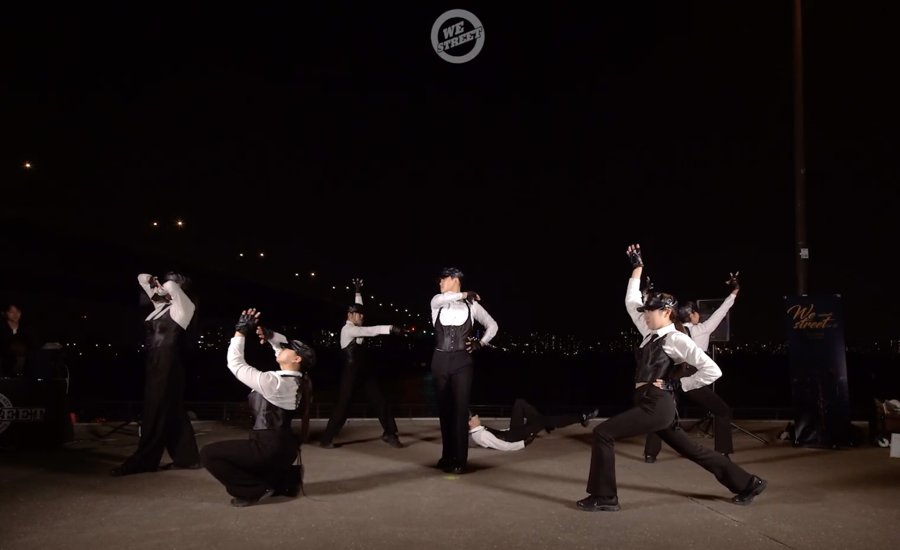
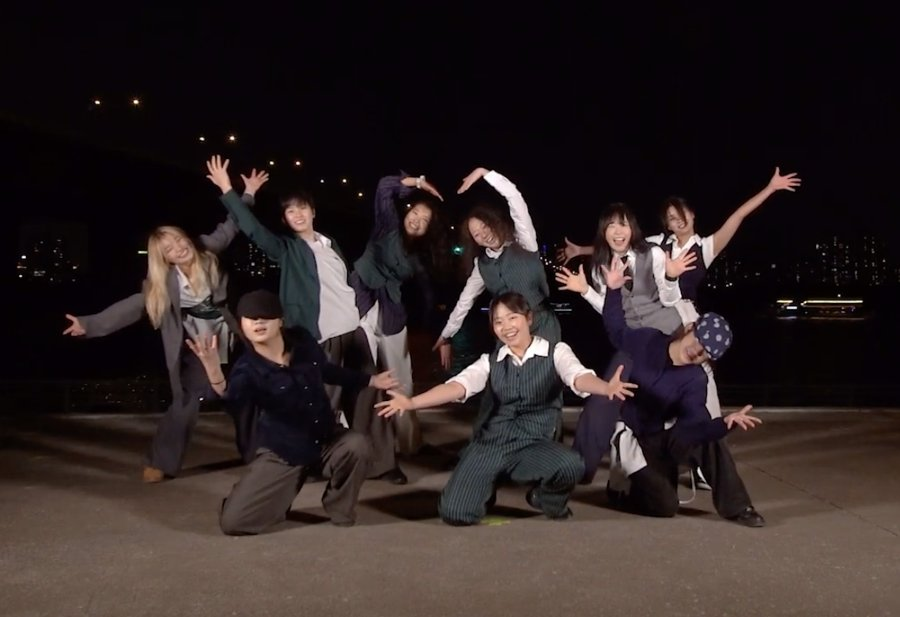
Add files via upload

diff --git a/index.html b/index.html
@@ -74,6 +74,8 @@ a.pl-hit:active{opacity:.8}
 .pl-title{display:block;font-size:15.5px;font-weight:800;line-height:1.3}
 .pl-desc{font-size:13px;color:var(--muted);margin:4px 0 0;line-height:1.55;word-break:keep-all}
 .pl-card .pg-edit{padding:0 16px 14px}
+.lu-note{font-size:13px;font-weight:600;color:var(--ink);margin:-2px 0 10px;word-break:keep-all}
+.lu-note-edit{margin:0 0 10px}
 .lu-group{margin-bottom:18px}
 .lu-h{font-size:13px;font-weight:800;letter-spacing:.04em;color:var(--muted);margin:0 0 8px}
 .lu-grid{display:grid;grid-template-columns:repeat(2,minmax(0,1fr));gap:10px}
@@ -524,12 +526,12 @@ window.HGJ_CONFIG = {"theme": {"colors": {"yellow": "#FFC700", "blue": "#1764F0"
   var GROUPS = [
     ["HOST · MC", [["yukyung", "유경", "HOST · MC"], ["hyukjun", "혁준", "HOST · MC"]]],
     ["DJ", [["dames", "DAMES", "DJ"]]],
-    ["WE STREET 공연", [["ws1", "공연팀 1", "14:30 공연"], ["ws2", "공연팀 2", "14:30 공연"], ["ws3", "공연팀 3", "14:30 공연"]]],
-    ["GUEST", [["kyungwon", "경원총각", "GUEST"], ["ssooni", "씨순이", "GUEST"], ["jin", "JIN", "GUEST"], ["hiron", "하이론", "BATTLE GUEST"]]],
-    ["장르 체험 강사", [["nohyunho", "노현호", "브레이킹 강사"], ["vlue", "황규영 / VLUE", "크럼프 강사"]]],
-    ["촬영", [["poetryfilm", "POETRY FILM", "영상 촬영"], ["yoon", "YooN", "사진 촬영"], ["parkjegwan", "박제관", "사진 촬영"], ["choiyusin", "최유신", "영상 촬영"]]]
+    ["장르 체험 강사", [["nohyunho", "노현호", "브레이킹 강사"], ["vlue", "황규영 / VLUE", "크럼프 강사"]], "lesson"],
+    ["GUEST", [["kyungwon", "경원총각", "GUEST"], ["ssooni", "씨순이", "GUEST"], ["jin", "JIN", "GUEST"], ["hiron", "하이론", "BATTLE GUEST"]], "guest"],
+    ["촬영", [["poetryfilm", "POETRY FILM", "영상 촬영"], ["choiyusin", "최유신", "영상 촬영"], ["yoon", "YooN", "사진 촬영"], ["parkjegwan", "박제관", "사진 촬영"]]]
   ];
-  var META = {"dames": {"insta": "damesgood", "photo": "0f252f39d522840e4245a8d7c6b368a8"}, "hiron": {"insta": "_hi_ron", "name": "하이론", "photo": "dc8b1b9727d7dedb6ab924ee44b545ce", "role": "BATTLE GUEST"}, "hyukjun": {"insta": "blackee_yuri", "name": "혁준", "photo": "119daf05c5dc17119b529bd97842c072", "role": "HOST · MC"}, "jin": {"photo": "1095da3a463900d2f5d0fdb3fa90febd"}, "kyungwon": {"insta": "pppp__arrk", "name": "경원총각", "photo": "66544b1c444ea11d1302db201b32d0ee", "role": "GUEST"}, "nohyunho": {"insta": "kaka_dowool_01"}, "poetryfilm": {"insta": "poetry_film_club", "photo": "71647f270cfecab7878db19aaab1e38e"}, "ssooni": {"insta": "cu_soonii", "name": "씨순이", "photo": "70dd9812a63e6656867ee7d1ef6fe9c9", "role": "GUEST"}, "yoon": {"insta": "choi.ayyeka"}, "yukyung": {"insta": "kwon_yk", "name": "유경", "photo": "043b16bfccba82de1d4ebb593e130735", "role": "HOST · MC"}}, db = null, assets = null, editable = false;
+  var NOTES = { lesson: "한강플플 실내 공간에서 스트릿댄스를 배울 수 있는 기회!", guest: "" };
+  var META = {"choiyusin": {"insta": "c.hoiiys", "name": "최유신", "photo": "83e08cf94d721339a6c755bc3fa54b21", "role": "영상 촬영"}, "dames": {"insta": "damesgood", "photo": "0f252f39d522840e4245a8d7c6b368a8"}, "hiron": {"insta": "_hi_ron", "name": "하이론", "photo": "dc8b1b9727d7dedb6ab924ee44b545ce", "role": "BATTLE GUEST"}, "hyukjun": {"insta": "blackee_yuri", "name": "혁준", "photo": "65a084495cfeb1782e6d76ad30030351", "role": "WE STREET"}, "jin": {"insta": "wassup_jin", "name": "JIN", "photo": "1095da3a463900d2f5d0fdb3fa90febd", "role": "GUEST"}, "kyungwon": {"insta": "pppp__arrk", "name": "경원총각", "photo": "66544b1c444ea11d1302db201b32d0ee", "role": "GUEST"}, "nohyunho": {"insta": "kaka_dowool_01", "photo": "e569ad7b5324a61c1e6a05363b91a7dc"}, "note-guest": {"text": "급식실 청년부터 편의점 알바생까지! 다양한 직업군을 가진 특별 게스트!"}, "parkjegwan": {"insta": "_cloudframe", "name": "박제관", "photo": "e676d408cfd68fc90b7f4bbc5ae164ed", "role": "사진 촬영"}, "poetryfilm": {"insta": "poetry_film_club", "photo": "71647f270cfecab7878db19aaab1e38e"}, "ssooni": {"insta": "cu_soonii", "name": "씨순이", "photo": "70dd9812a63e6656867ee7d1ef6fe9c9", "role": "GUEST"}, "vlue": {"insta": "vlue_vibe", "name": "황규영 / VLUE", "photo": "c1ffd9bdad64f815df7bed3f50e2c1d6", "role": "크럼프 강사"}, "yoon": {"insta": "choi.ayyeka", "photo": "2f2cfec8923a7bcdb7bfbb3175187787"}, "yukyung": {"insta": "kwon_yk", "name": "유경", "photo": "043b16bfccba82de1d4ebb593e130735", "role": "ONLIT (한강잼)"}}, db = null, assets = null, editable = false;
   var $ = function (s) { return document.querySelector(s); };
   var esc = function (s) { return String(s == null ? "" : s).replace(/[&<>"']/g, function (c) { return { "&": "&amp;", "<": "&lt;", ">": "&gt;", '"': "&quot;", "'": "&#39;" }[c]; }); };
   var handle = function (v) { return String(v || "").trim().replace(/^@/, "").replace(/^https?:\/\/(www\.)?instagram\.com\//, "").replace(/\/.*$/, ""); };
@@ -540,10 +542,12 @@ window.HGJ_CONFIG = {"theme": {"colors": {"yellow": "#FFC700", "blue": "#1764F0"
     var nk = function (s) { return String(s || "").replace(/[\s\/._-]/g, "").toLowerCase(); };
     var edImg = {};
     try { (window.HGJ ? window.HGJ.config : window.HGJ_CONFIG).content.lineup.forEach(function (p) { if (p && p.img) { edImg[nk(p.name)] = p.img; String(p.name).split("/").forEach(function (part) { if (nk(part)) edImg[nk(part)] = p.img; }); } }); } catch (e) {}
-    var pickImg = function (p) { var BAKED = {"dames": "images/lineup/dames.jpg", "hiron": "images/lineup/hiron.jpg", "hyukjun": "images/lineup/hyukjun.jpg", "jin": "images/lineup/jin.jpg", "kyungwon": "images/lineup/kyungwon.jpg", "poetryfilm": "images/lineup/poetryfilm.jpg", "ssooni": "images/lineup/ssooni.jpg", "yukyung": "images/lineup/yukyung.jpg"}; if (BAKED[p[0]]) return BAKED[p[0]]; var m = META[p[0]] || {}; if (m.photo) return "/_blob/" + m.photo; var hit = edImg[nk(p[1])]; if (hit) return hit; var parts = String(p[1]).split("/"); for (var i = 0; i < parts.length; i++) { if (edImg[nk(parts[i])]) return edImg[nk(parts[i])]; } return ""; };
+    var pickImg = function (p) { var BAKED = {"choiyusin": "images/lineup/choiyusin.jpg", "dames": "images/lineup/dames.jpg", "hiron": "images/lineup/hiron.jpg", "hyukjun": "images/lineup/hyukjun.jpg", "jin": "images/lineup/jin.jpg", "kyungwon": "images/lineup/kyungwon.jpg", "nohyunho": "images/lineup/nohyunho.jpg", "parkjegwan": "images/lineup/parkjegwan.jpg", "poetryfilm": "images/lineup/poetryfilm.jpg", "ssooni": "images/lineup/ssooni.jpg", "vlue": "images/lineup/vlue.jpg", "yoon": "images/lineup/yoon.jpg", "yukyung": "images/lineup/yukyung.jpg"}; if (BAKED[p[0]]) return BAKED[p[0]]; var m = META[p[0]] || {}; if (m.photo) return "/_blob/" + m.photo; var hit = edImg[nk(p[1])]; if (hit) return hit; var parts = String(p[1]).split("/"); for (var i = 0; i < parts.length; i++) { if (edImg[nk(parts[i])]) return edImg[nk(parts[i])]; } return ""; };
     box.innerHTML = GROUPS.map(function (g) {
       var n = g[1].length, cls = n === 1 ? "n1" : (n === 3 ? "n3" : "");
-      return '<div class="lu-group"><h3 class="lu-h">' + esc(g[0]) + '</h3><div class="lu-grid ' + cls + '">' + g[1].map(function (p, idx) {
+      var nk = g[2], note = nk ? ((META["note-" + nk] || {}).text || NOTES[nk] || "") : "";
+      var noteHtml = nk ? ((note ? '<p class="lu-note">' + esc(note) + "</p>" : "") + (editable ? '<div class="lu-igrow lu-note-edit"><input class="lu-in lu-note-in" value="' + esc(note) + '" placeholder="분류 설명 문구"><button class="lu-btn lu-note-save" data-note="' + nk + '">저장</button></div>' : "")) : "";
+      return '<div class="lu-group"><h3 class="lu-h">' + esc(g[0]) + "</h3>" + noteHtml + '<div class="lu-grid ' + cls + '">' + g[1].map(function (p, idx) {
         var m = META[p[0]] || {}, ig = handle(m.insta), name = m.name || p[1], role = m.role || p[2];
         var wide = n === 1 || (n % 2 === 1 && n !== 3 && idx === n - 1);
         var src = pickImg(p);
@@ -570,6 +574,11 @@ window.HGJ_CONFIG = {"theme": {"colors": {"yellow": "#FFC700", "blue": "#1764F0"
     assets.upload(f).then(function (a) { return save(k, { photo: a.id }, msg); }, function () { msg.textContent = "사진을 올리지 못했어요. 20MB 이하 이미지인지 확인해 주세요."; });
   });
   document.addEventListener("click", function (e) {
+    var nb = e.target.closest && e.target.closest(".lu-note-save"); if (!nb) return;
+    var v = nb.parentNode.querySelector(".lu-note-in").value.trim();
+    save("note-" + nb.dataset.note, { text: v });
+  });
+  document.addEventListener("click", function (e) {
     var b = e.target.closest && e.target.closest(".lu-save"); if (!b) return;
     var card = b.closest(".lu-card"); save(card.dataset.k, { insta: handle(card.querySelector(".lu-ig-in").value), name: card.querySelector(".lu-nm").value.trim(), role: card.querySelector(".lu-rl").value.trim() }, card.querySelector(".lu-msg"));
   });
@@ -593,7 +602,7 @@ window.HGJ_CONFIG = {"theme": {"colors": {"yellow": "#FFC700", "blue": "#1764F0"
 <script>
 /* 즐길거리 프로그램: 사진 카드 + 누르면 링크 열기 · 사진·링크는 편집 권한이 있는 사람이 화면에서 바로 올리고 고침 */
 (function () {
-  var META = {"p0": {"photo": "e20d92dab1fa7ad6fba4caa6b761ec26"}, "p1": {"link": "https://www.youtube.com/watch?v=S54KfEcL0xg", "photo": "1bfdf4fc308f4a15434370b0da112003"}, "p2": {"link": "https://www.youtube.com/@westreetonstage5019", "photo": "f3bdecfd77a9fd5f2d63ae2a0d86aee8"}, "p3": {"photo": "77e9a1f1b2c06fc80e291d396021c830"}}, db = null, assets = null, editable = false;
+  var META = {"p0": {"photo": "e20d92dab1fa7ad6fba4caa6b761ec26"}, "p1": {"link": "https://www.youtube.com/watch?v=S54KfEcL0xg", "photo": "1bfdf4fc308f4a15434370b0da112003"}, "p2": {"link": "https://www.youtube.com/@westreetonstage5019", "photo": "df78b3194d849312a3acbac88948e656"}, "p3": {"photo": "77e9a1f1b2c06fc80e291d396021c830"}, "p4": {"link": "https://www.instagram.com/p/DfPBoPmGAzi/?dlrf=MXZ3d2Rpd2JwMmI3Mg==", "photo": "61c0a63b75b150dc1357728542d25c25"}, "p5": {"photo": "aae05107b112df0e2c102dbe8da1d86c"}}, db = null, assets = null, editable = false;
   var $ = function (s) { return document.querySelector(s); };
   var esc = function (s) { return String(s == null ? "" : s).replace(/[&<>"']/g, function (c) { return { "&": "&amp;", "<": "&lt;", ">": "&gt;", '"': "&quot;", "'": "&#39;" }[c]; }); };
   var br = function (s) { return esc(s).replace(/\n/g, "<br>"); };
@@ -619,7 +628,7 @@ window.HGJ_CONFIG = {"theme": {"colors": {"yellow": "#FFC700", "blue": "#1764F0"
   var ORDER = [["야외 프로그램", ["jam", "battle", "show", "photo"]], ["실내 프로그램", ["lesson", "market"]]];
   function row(p, k) {
     var m = META[k] || {}, link = okLink(m.link || p.link), ic = ICONS[iconKey(p)];
-    var PBAKED = {"p0": "images/programs/p0.jpg", "p1": "images/programs/p1.jpg", "p2": "images/programs/p2.jpg", "p3": "images/programs/p3.jpg"}; var src = PBAKED[k] || (m.photo ? "/_blob/" + m.photo : (p.img || ""));
+    var PBAKED = {"p0": "images/programs/p0.jpg", "p1": "images/programs/p1.jpg", "p2": "images/programs/p2.jpg", "p3": "images/programs/p3.jpg", "p4": "images/programs/p4.jpg", "p5": "images/programs/p5.jpg"}; var src = PBAKED[k] || (m.photo ? "/_blob/" + m.photo : (p.img || ""));
     var icon = '<div class="pl-ico pl-' + ic[0] + '"><svg viewBox="0 0 24 24" fill="none" stroke="currentColor" stroke-width="1.9" stroke-linecap="round" stroke-linejoin="round" aria-hidden="true">' + ic[1] + "</svg></div>";
     var head = '<div class="pg-img' + (src ? "" : " empty") + '">' + (src ? '<img src="' + esc(src) + '" alt="">' : icon) + (p.where ? '<span class="pg-where">' + esc(p.where) + "</span>" : "") + "</div>";
     var inner = head + '<div class="pg-body"><b class="pg-title">' + esc(p.title) + '</b><p class="pg-desc">' + br(p.desc) + "</p>" + (link ? '<span class="pg-more">자세히 보기 ↗</span>' : "") + "</div>";
